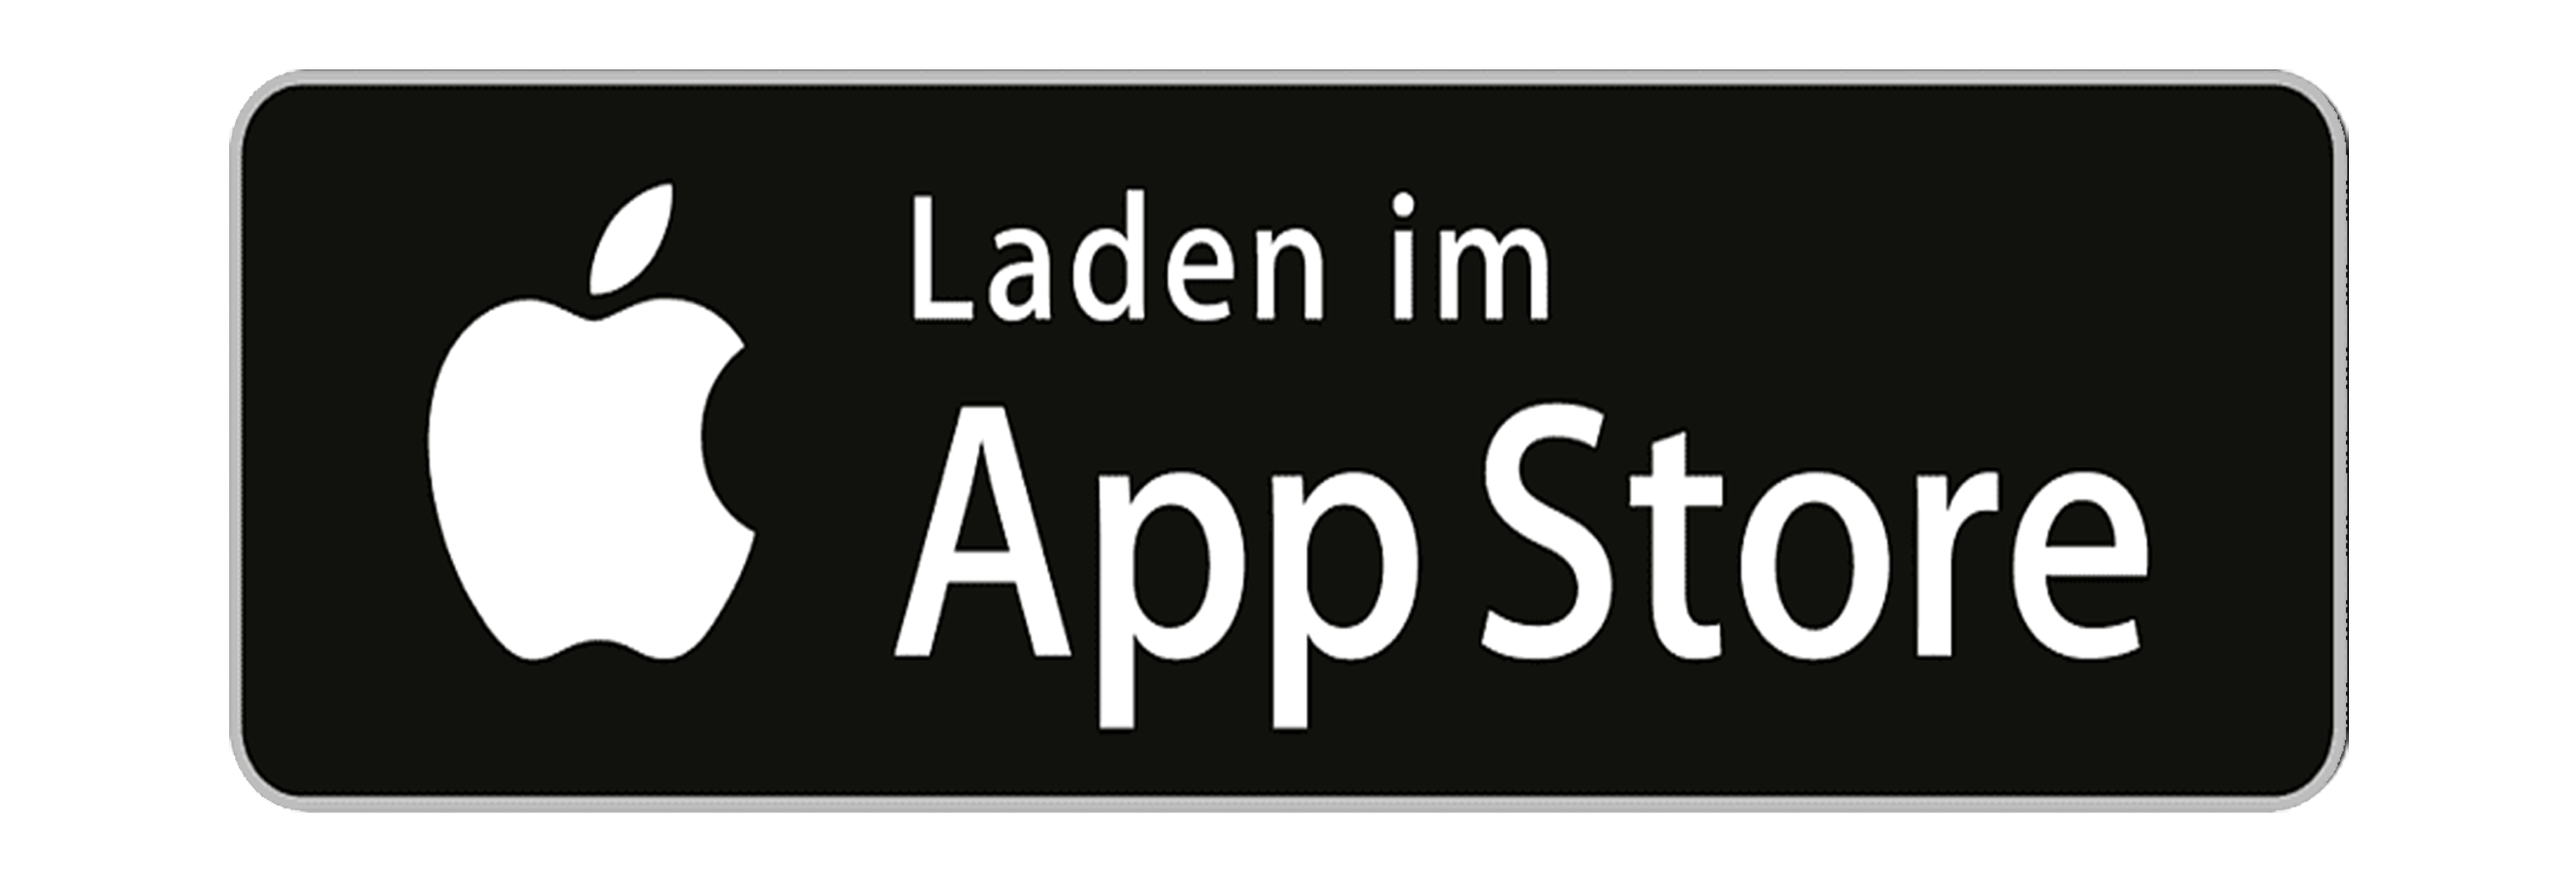
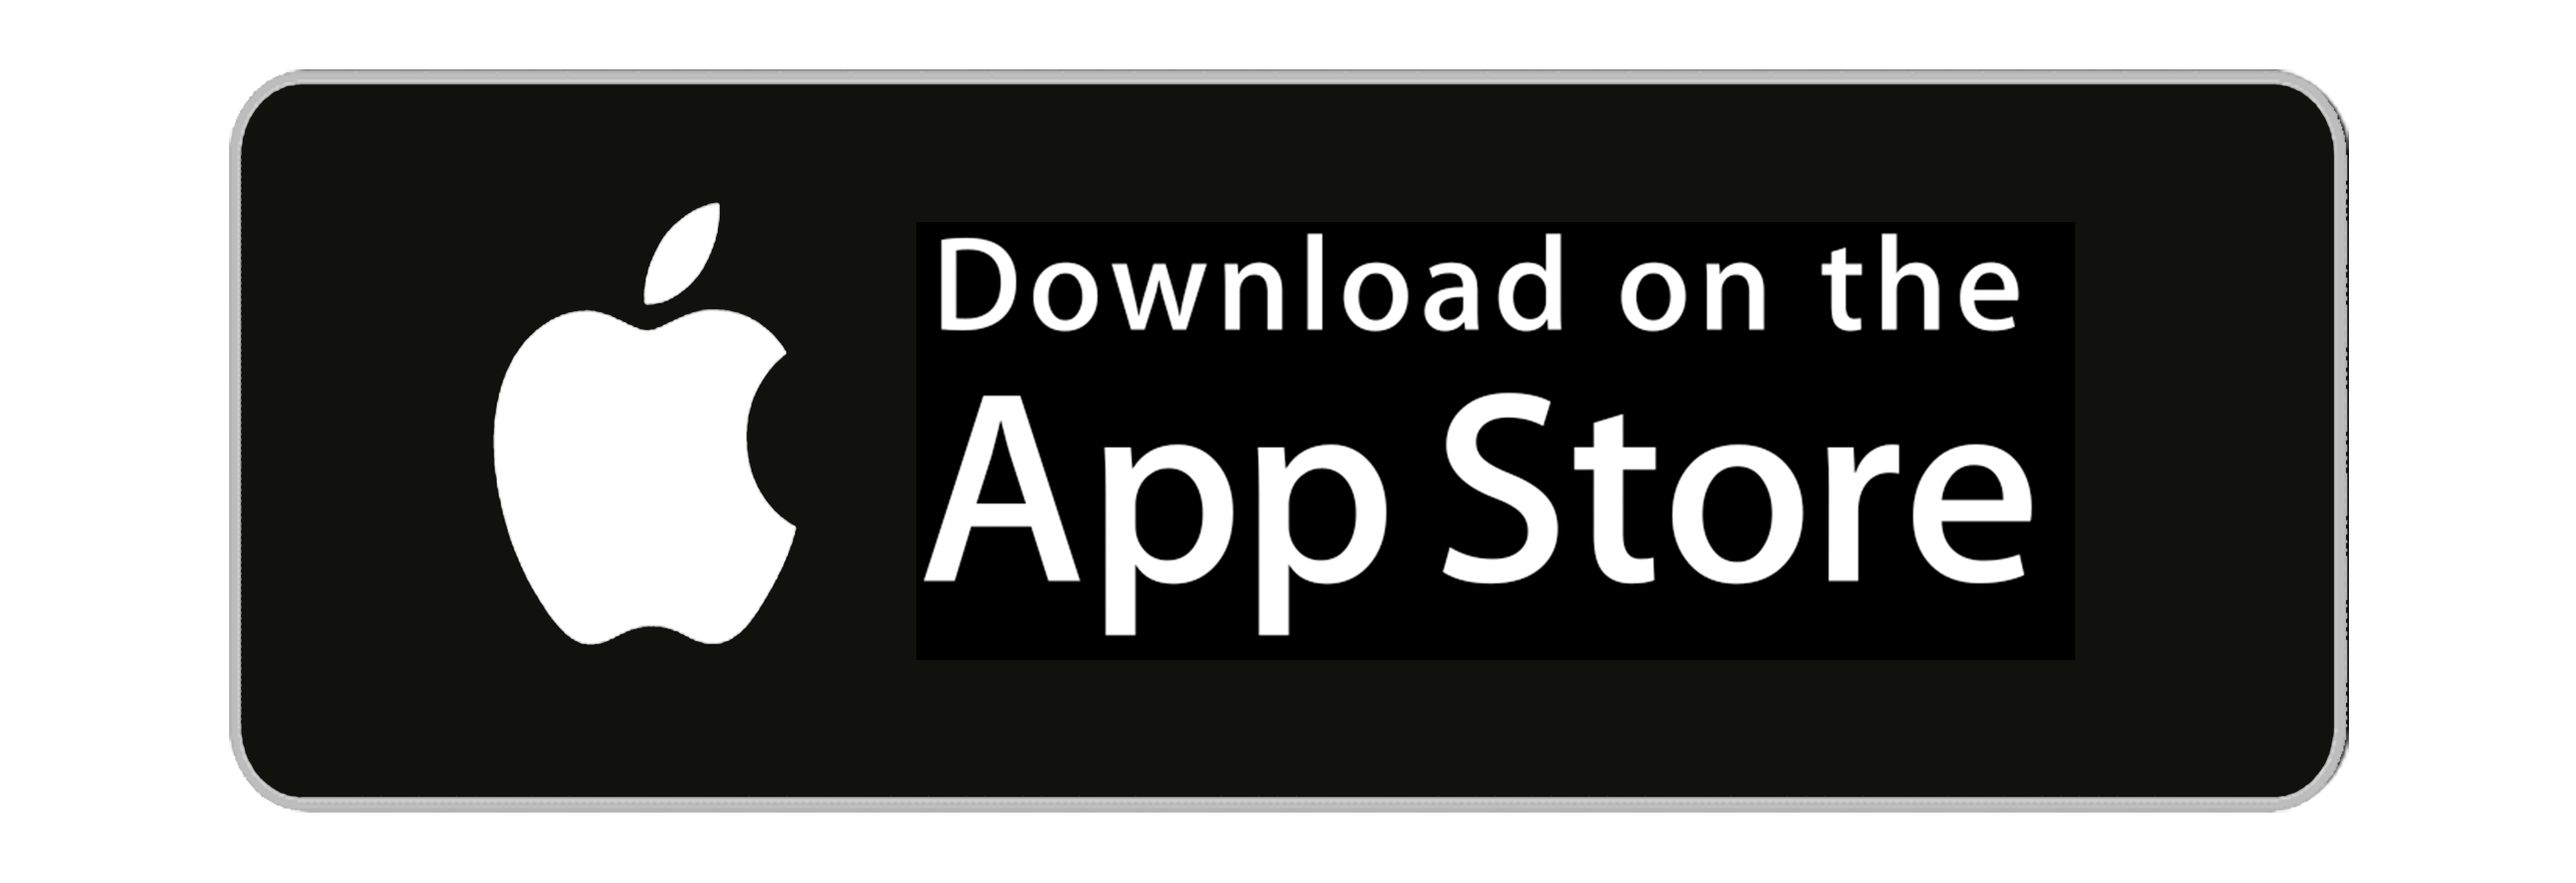
update app/play store buttons

Changed region(s): [[0.343, 0.4242, 0.8418, 0.8182], [0.343, 0.2121, 0.8106, 0.3939], [0.1559, 0.2121, 0.3118, 0.7576]]

diff --git a/index.html b/index.html
@@ -95,14 +95,14 @@ description: Backgammon - Privacy Policy
         <p class="text_bold">HOW TO CONTACT US<br></p>
         <p>
           If you have any questions relating to this Privacy Policy, feel free to contact us with any query at 
-          <b>  --- hello@friendgammon.com ---  </b> and we will answer you shortly.<br>
-          <a href="https://play.google.com/store/apps/details?id=com.friend_gammon&hl=en_USIf" >
-            <img src="assets/play_store_btn.png">
-          </a>
+          <b>  --- hello@friendgammon.com ---  </b> and we will answer you shortly.<br><br>
           <a href="https://apps.apple.com/al/app/friendgammon/id1470399365" >
-            <img src="assets/app_store_btn.png">
+            <img src="assets/app_store_btn.png" width="300" height="100" >
           </a>
-          <br><br><br>
+          <a href="https://play.google.com/store/apps/details?id=com.friend_gammon&hl=en_USIf" >
+            <img src="assets/play_store_btn.png" width="300" height="100" >
+          </a>
+          <br><br>
         </p>
 
       </div>
